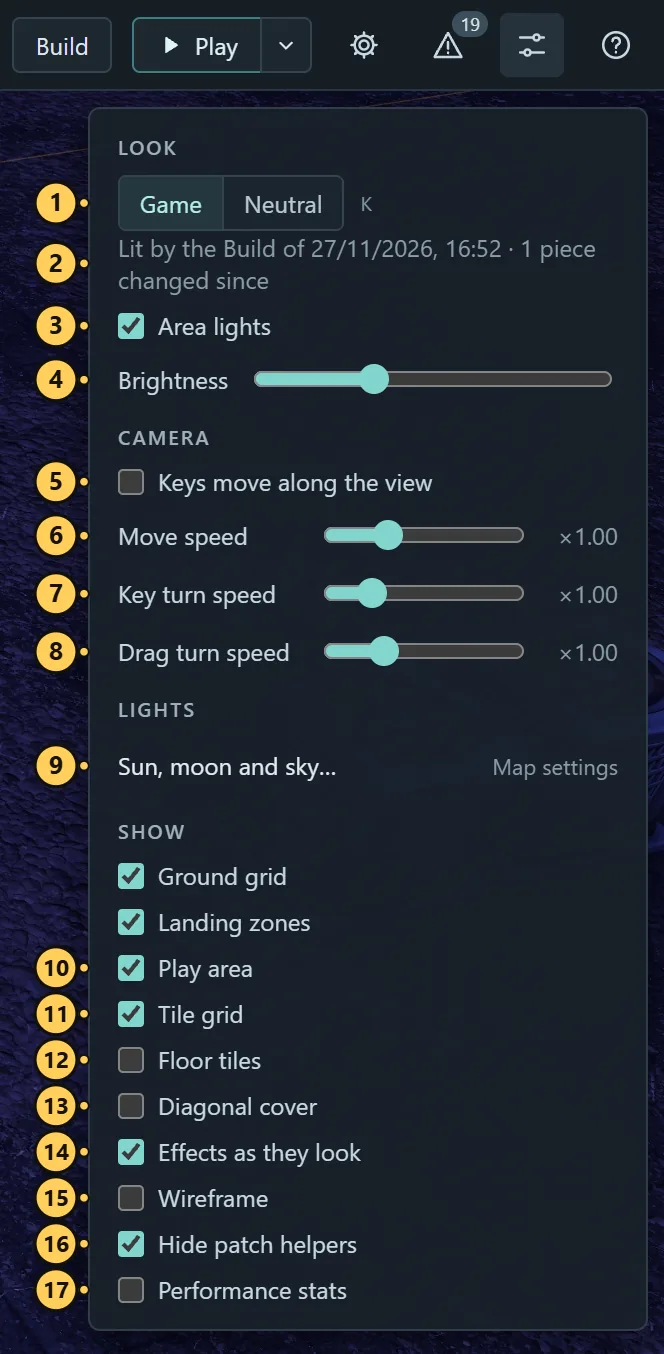
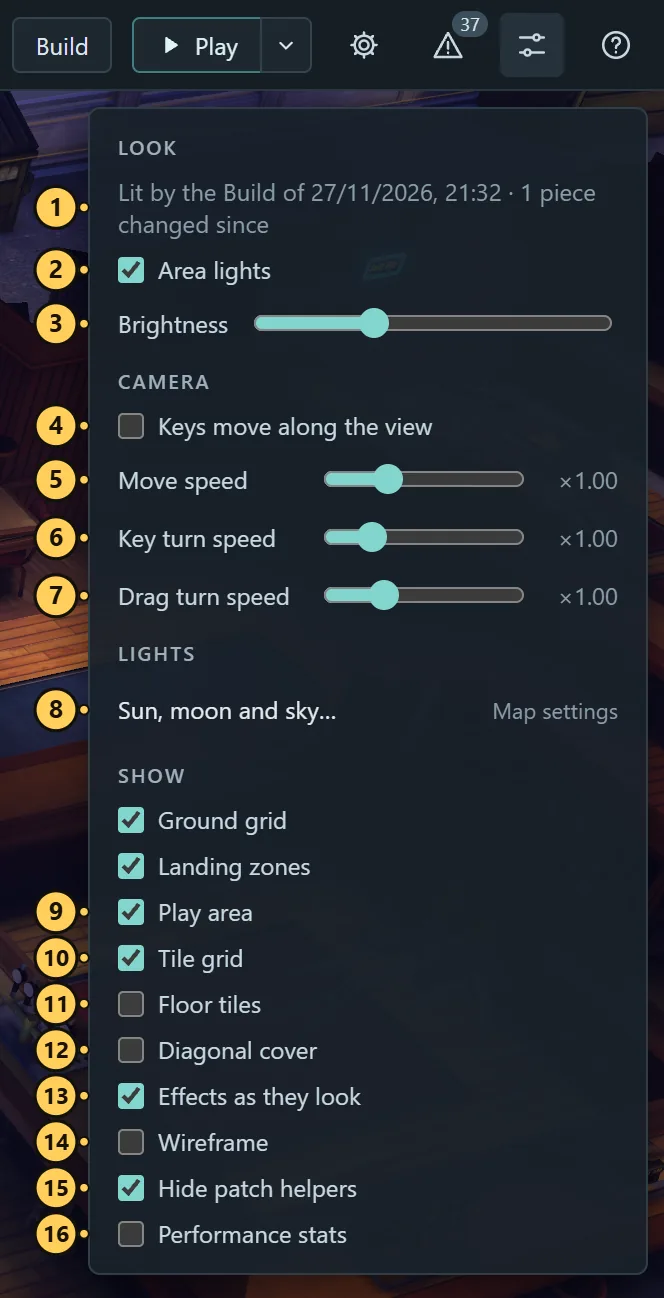
The Game and Neutral look switch moves from View options to the bottom bar (after Frame), K unchanged; the guide's legends, text and two pictures follow

diff --git a/tools/release/guide/guide.html b/tools/release/guide/guide.html
@@ -655,7 +655,7 @@ footer { margin-top: 70px; padding-top: 18px; border-top: 1px solid var(--line);
     <a href="#settings">More</a></li>
   <li data-n="11"><b>Import notes:</b> what the editor couldn't read exactly from the map (a material drawn in an
     approximate colour, say), with their count. They are about the picture, not about your edits.</li>
-  <li data-n="12"><b>View options:</b> the look (Game or Neutral), the camera, the tile grid and more. <a href="#viewoptions">More</a></li>
+  <li data-n="12"><b>View options:</b> the look's options, the camera, the tile grid and more. <a href="#viewoptions">More</a></li>
   <li data-n="13"><b>Controls and shortcuts:</b> a short list of every key, the editor's version, and a link to this guide.</li>
 </ol>
 <p>Items 3 to 6 show once something has changed. While the project manager's <a href="#build-queue">build queue</a>
@@ -825,13 +825,16 @@ footer { margin-top: 70px; padding-top: 18px; border-top: 1px solid var(--line);
 </ul>
 
 <h3 id="bottom">Bottom bar and floors</h3>
-<figure><img src="shots/dock.webp" width="542" height="92" alt="The bottom bar: Frame, Scene and Floors"></figure>
+<figure><img src="shots/dock.webp" width="704" height="92" alt="The bottom bar: Frame, Look, Scene and Floors"></figure>
 <ol class="legend">
   <li data-n="1"><b>Frame</b> fits the whole view in the window: the play area in Interior, everything in Full.</li>
-  <li data-n="2"><b>Scene:</b> <b class="ui">Interior</b> shows the area the game plays on; <b class="ui">Full</b> adds
+  <li data-n="2"><b>Look:</b> <b class="ui">Game</b>, the map as the game draws it, or <b class="ui">Neutral</b>,
+    plain even light, best for building. <kbd>K</kbd> switches between them anywhere. A map opens in the Neutral
+    look. <a href="#game-look">The Game look</a></li>
+  <li data-n="3"><b>Scene:</b> <b class="ui">Interior</b> shows the area the game plays on; <b class="ui">Full</b> adds
     the backdrop around it (distant buildings, the street beyond the edge). Interior draws a piece that reaches into
     the area whole, a car across the edge included, unless it stretches more than four tiles past it.</li>
-  <li data-n="3"><b>Floors:</b> <b class="ui">All</b> shows buildings whole, roofs closed. A number cuts every building
+  <li data-n="4"><b>Floors:</b> <b class="ui">All</b> shows buildings whole, roofs closed. A number cuts every building
     down to that floor, so you can see and edit inside. With a floor chosen, a new floor box in the
     <a href="#buildings">Buildings view</a> starts at that floor's height.</li>
 </ol>
@@ -843,40 +846,37 @@ footer { margin-top: 70px; padding-top: 18px; border-top: 1px solid var(--line);
 
 <h3 id="viewoptions">View options</h3>
 <div class="split">
-  <figure><img src="shots/view-options.webp" width="332" height="677" alt="The View options menu in the Game look, its seventeen items numbered, the line of the project's last baked Build under the look"></figure>
+  <figure><img src="shots/view-options.webp" width="332" height="649" alt="The View options menu in the Game look, its sixteen items numbered, the line of the project's last baked Build first"></figure>
   <ol class="legend">
-    <li data-n="1"><b>Look:</b> <b class="ui">Game</b>, the map as the game draws it, or <b class="ui">Neutral</b>,
-      plain even light, best for building. <kbd>K</kbd> switches between them anywhere. A map opens in the Neutral
-      look. <a href="#game-look">The Game look</a></li>
-    <li data-n="2"><b>Lit by the Build of…:</b> in the Game look, with a project open whose last build was baked: when
+    <li data-n="1"><b>Lit by the Build of…:</b> in the Game look, with a project open whose last build was baked: when
       that build was made, and how many pieces changed since. <a href="#build-light">More</a></li>
-    <li data-n="3"><b>Area lights:</b> in the Game look, the lights the bake made for the map's glowing pieces (a
+    <li data-n="2"><b>Area lights:</b> in the Game look, the lights the bake made for the map's glowing pieces (a
       lamp's shade, a lit sign). Untick it to see the map's placed lights alone. Greyed in the Neutral look.</li>
-    <li data-n="4"><b>Brightness</b> of the view.</li>
-    <li data-n="5"><b>Keys move along the view:</b> <kbd>W</kbd> <kbd>A</kbd> <kbd>S</kbd> <kbd>D</kbd> and the arrow keys move the
+    <li data-n="3"><b>Brightness</b> of the view.</li>
+    <li data-n="4"><b>Keys move along the view:</b> <kbd>W</kbd> <kbd>A</kbd> <kbd>S</kbd> <kbd>D</kbd> and the arrow keys move the
       camera forward, back and sideways the way it faces, instead of panning across the map, and dragging looks round
       from where the camera stands instead of orbiting. <a href="#view">More</a></li>
-    <li data-n="6"><b>Move speed:</b> how fast <kbd>W</kbd> <kbd>A</kbd> <kbd>S</kbd> <kbd>D</kbd> and the arrow keys
+    <li data-n="5"><b>Move speed:</b> how fast <kbd>W</kbd> <kbd>A</kbd> <kbd>S</kbd> <kbd>D</kbd> and the arrow keys
       move the camera, from a fifth of the usual speed to three times it (<kbd>Shift</kbd> still triples it).</li>
-    <li data-n="7"><b>Key turn speed:</b> how fast <kbd>Q</kbd> and <kbd>E</kbd> turn the camera.</li>
-    <li data-n="8"><b>Drag turn speed:</b> how fast a drag orbits, or looks round with Keys move along the view. The
+    <li data-n="6"><b>Key turn speed:</b> how fast <kbd>Q</kbd> and <kbd>E</kbd> turn the camera.</li>
+    <li data-n="7"><b>Drag turn speed:</b> how fast a drag orbits, or looks round with Keys move along the view. The
       three speeds are kept on this computer; double-click a slider to put it back to ×1.</li>
-    <li data-n="9"><b>Sun, moon and sky…</b> opens <a href="#map-settings">Map settings</a>, where the time of day,
+    <li data-n="8"><b>Sun, moon and sky…</b> opens <a href="#map-settings">Map settings</a>, where the time of day,
       the sky, the fog and the colour are set.</li>
-    <li data-n="10"><b>Play area</b> (<kbd>B</kbd>): faint amber walls round the area the game plays on, its level volume:
+    <li data-n="9"><b>Play area</b> (<kbd>B</kbd>): faint amber walls round the area the game plays on, its level volume:
       units can't leave it.</li>
-    <li data-n="11"><b>Tile grid</b> around the selection.</li>
-    <li data-n="12"><b>Floor tiles:</b> where the game has floor, coloured by the piece that carries each tile. Hover a
+    <li data-n="10"><b>Tile grid</b> around the selection.</li>
+    <li data-n="11"><b>Floor tiles:</b> where the game has floor, coloured by the piece that carries each tile. Hover a
       tile to name its piece; click to select it.</li>
-    <li data-n="13" id="diagonal-cover"><b>Diagonal cover:</b> the diagonal cover marks drawn in the normal view too,
+    <li data-n="12" id="diagonal-cover"><b>Diagonal cover:</b> the diagonal cover marks drawn in the normal view too,
       never picked there: amber the map's own as it is, teal the ones your project adds or changes, or that follow
       their piece. They are edited in the <a href="#diagonal">Diagonal cover view</a>.</li>
-    <li data-n="14"><b>Effects as they look:</b> each effect drawn where it stands, moving. Untick it for a busy map on a
+    <li data-n="13"><b>Effects as they look:</b> each effect drawn where it stands, moving. Untick it for a busy map on a
       slow computer; the markers and the editing stay. <a href="#effects-look">More</a></li>
-    <li data-n="15"><b>Wireframe.</b></li>
-    <li data-n="16"><b>Hide patch helpers:</b> untick to see Long War Rebalance's invisible cover and blockers, as a
+    <li data-n="14"><b>Wireframe.</b></li>
+    <li data-n="15"><b>Hide patch helpers:</b> untick to see Long War Rebalance's invisible cover and blockers, as a
       wireframe. Shown only on maps that have them.</li>
-    <li data-n="17"><b>Performance stats:</b> a line of counts (pieces, triangles, draw calls).</li>
+    <li data-n="16"><b>Performance stats:</b> a line of counts (pieces, triangles, draw calls).</li>
   </ol>
 </div>
 <p>Above Play area, on a whole map: <b class="ui">Ground grid</b> and <b class="ui">Landing zones</b>
@@ -886,7 +886,8 @@ footer { margin-top: 70px; padding-top: 18px; border-top: 1px solid var(--line);
 
 <h3 id="game-look">The Game look</h3>
 <p>The <b class="ui">Game</b> look draws the map as the game draws it; the <b class="ui">Neutral</b> look lights it
-  evenly, which is easier to build in. <kbd>K</kbd> switches between them, and View options' Look row does the same. A
+  evenly, which is easier to build in. <kbd>K</kbd> switches between them, and so does the Look switch in the
+  <a href="#bottom">bottom bar</a>. A
   map opens in the Neutral look; the Game look is greyed on a scene with no lighting of its own.</p>
 <div class="pair">
   <figure class="zoom"><img src="shots/look-neutral.webp" width="470" height="320" alt="The Bar's front and car park in the Neutral look: even studio light"><figcaption>Neutral</figcaption></figure>
@@ -920,7 +921,7 @@ footer { margin-top: 70px; padding-top: 18px; border-top: 1px solid var(--line);
   pieces near your changes new ones. With a project open whose last build was baked, the Game look lights each piece
   that is as that build made it by the build's own lightmaps, the first time the look is on (the editor reads them from
   the build into its cache, in a second or so). View options says so under the look: <i>Lit by the Build of 27/11/2026,
-  16:52 · 1 piece changed since</i> (item 2 of <a href="#viewoptions">its picture</a>).</p>
+  16:52 · 1 piece changed since</i> (item 1 of <a href="#viewoptions">its picture</a>).</p>
 <ul>
   <li><b>A piece changed since the build</b> is lit live, as are the pieces a light changed since reaches. Undo puts a
     piece back on the build's light.</li>

diff --git a/tools/viewer/web/index.html b/tools/viewer/web/index.html
@@ -576,9 +576,6 @@
     <section id="issues" class="panel pop" aria-label="Import notes" hidden><h3>Import notes</h3><div id="composition"></div><div id="diagnostics"></div></section>
     <section id="viewOptions" class="panel pop" aria-label="View options" hidden>
       <h3>Look</h3>
-      <div class="lookrow"><div id="lighting" class="seg" role="group" aria-label="Look">
-        <button data-value="game" title="The map as the game shows it: its own lights (K switches the look)">Game</button><button data-value="neutral" title="Even studio light, for building (K switches the look)">Neutral</button>
-      </div><kbd title="Switches between the Game and Neutral looks">K</kbd></div>
       <div id="buildLight" class="lightnote" hidden></div>
       <label class="check" id="areaLightsRow" title="In the Game look, the area lights the bake made for the map's glowing pieces (a lamp's shade, a lit sign), drawn as lights. Untick them to see the map's placed lights alone"><input id="areaLights" type="checkbox" checked> Area lights</label>
       <label class="slider">Brightness <input id="exposure" type="range" min="0.3" max="2.5" step="0.05" value="1"></label>
@@ -621,6 +618,7 @@
     </section>
     <div class="dock panel" role="toolbar" aria-label="View">
       <button id="frame" title="Frame the whole view (the play area in Interior)"><svg class="i"><use href="#i-frame"/></svg>Frame</button>
+      <div id="lookGroup" class="group"><span class="label">Look</span><div id="lighting" class="seg" role="group" aria-label="Look"><button data-value="game" title="The map as the game shows it: its materials, its baked and placed lights, its fog, colour and sky (K switches the look)">Game</button><button data-value="neutral" title="Even studio light, for building (K switches the look)">Neutral</button></div></div>
       <div id="sceneryGroup" class="group"><span class="label">Scene</span><div id="scenery" class="seg" role="group" aria-label="Scene"><button data-value="interior" title="The playable interior: the area and floors the game plays on">Interior</button><button data-value="full" title="Everything in the map, with backdrops and roofs">Full</button></div></div>
       <div id="floorGroup" class="group"><span class="label">Floors</span><div id="floor" class="seg" role="group" aria-label="Show through floor"></div></div>
     </div>

diff --git a/tools/viewer/web/style.css b/tools/viewer/web/style.css
@@ -16,7 +16,7 @@ body { user-select: none; }
 #buildNote, #buildLeftOut, #buildMissions, #buildLog, #buildResult, #prefabTestNote, #prefabTestIssues, #prefabTestLog { user-select: text; }
 button { font: inherit; color: inherit; }
 kbd { font: 10px Segoe UI, system-ui, sans-serif; color: #7f95a1; }
-.lookrow { display: flex; align-items: center; gap: 8px; }   /* the look's buttons and their key (View options) */
+.lookrow { display: flex; align-items: center; gap: 8px; }   /* a made piece's look: its name and its buttons */
 .sprite { display: none; }
 .i { width: 18px; height: 18px; fill: none; stroke: currentColor; stroke-width: 1.7; stroke-linecap: round; stroke-linejoin: round; flex-shrink: 0; }
 

diff --git a/tools/release/guide/take_shots.py b/tools/release/guide/take_shots.py
@@ -332,7 +332,7 @@ class Shots:
 
     def dock(self):
         self.page.evaluate('viewer.select(null)')
-        marks = [dict(n=k + 1, sel=s, side='top', gap=17) for k, s in enumerate(('#frame', '#scenery', '#floor'))]
+        marks = [dict(n=k + 1, sel=s, side='top', gap=17) for k, s in enumerate(('#frame', '#lighting', '#scenery', '#floor'))]
         self.shot('dock', marks, clip=self.around('.dock', pad=(60, 40, 60, 10)))
 
     def project_menu(self):
@@ -992,9 +992,9 @@ class Shots:
         page.wait_for_function("document.getElementById('buildLight').textContent.includes('1 piece changed since')", timeout=30000)
         page.locator('#viewButton').click()
         page.wait_for_timeout(600)
-        rows = [(1, '#lighting'), (2, '#buildLight'), (3, '#areaLights'), (4, '#exposure'), (5, '#flyKeys'), (6, '#moveSpeed'),
-                (7, '#turnSpeed'), (8, '#dragSpeed'), (9, '#skyOpen'), (10, '#playAreaToggle'), (11, '#grid'), (12, '#floorTiles'),
-                (13, '#diagonalCover'), (14, '#likenessToggle'), (15, '#wire'), (16, '#hideHelpers'), (17, '#statsToggle')]
+        rows = [(1, '#buildLight'), (2, '#areaLights'), (3, '#exposure'), (4, '#flyKeys'), (5, '#moveSpeed'), (6, '#turnSpeed'),
+                (7, '#dragSpeed'), (8, '#skyOpen'), (9, '#playAreaToggle'), (10, '#grid'), (11, '#floorTiles'),
+                (12, '#diagonalCover'), (13, '#likenessToggle'), (14, '#wire'), (15, '#hideHelpers'), (16, '#statsToggle')]
         hidden = [s for _, s in rows if not page.locator(s).is_visible()]
         if hidden: raise SystemExit('View options lacks %s on %s: the guide numbers them all' % (', '.join(hidden), MAP))
         self.shot('view-options', self.panel_rows('#viewOptions', rows), clip=self.around('#viewButton', '#viewOptions', pad=(44, 6, 8, 12)))

diff --git a/changelog/entries/2026-11-27-look-switch-in-bottom-bar.md b/changelog/entries/2026-11-27-look-switch-in-bottom-bar.md
@@ -1,0 +1,16 @@
+### The Game and Neutral look switch moves to the bottom bar
+
+The look switch (Game, Neutral) stood at the top of View options. It is now a group of the bottom bar, after Frame and
+before Scene and Floors, in the bar's own style, shown on every map. K still switches it. View options keeps the look's
+settings under its Look heading: the line of the project's last baked Build, Area lights and Brightness.
+
+- Where: [index.html](../../tools/viewer/web/index.html) (`#lookGroup` in the dock; the switch keeps its id `lighting`,
+  so every script that reads it is unchanged), [style.css](../../tools/viewer/web/style.css) (a comment),
+  [guide.html](../../tools/release/guide/guide.html) (the bottom bar's legend gains Look as item 2, View options' legend
+  numbers 1 to 16, the Game look's text points to the bar), [take_shots.py](../../tools/release/guide/take_shots.py)
+  (the dock shot marks the switch, View options' rows renumbered), the guide's pictures `dock` and `view-options` taken
+  again.
+- Checked: in a test server's page the switch sits in the bar, a click and K switch the look; browser_smoke.py's
+  map-lights, lights, time-of-day, map-settings and likeness checks pass on URB_Bar of export 49; the node, repo and
+  guide tests pass; both pictures looked at against their legends.
+- Known gaps: none known.
